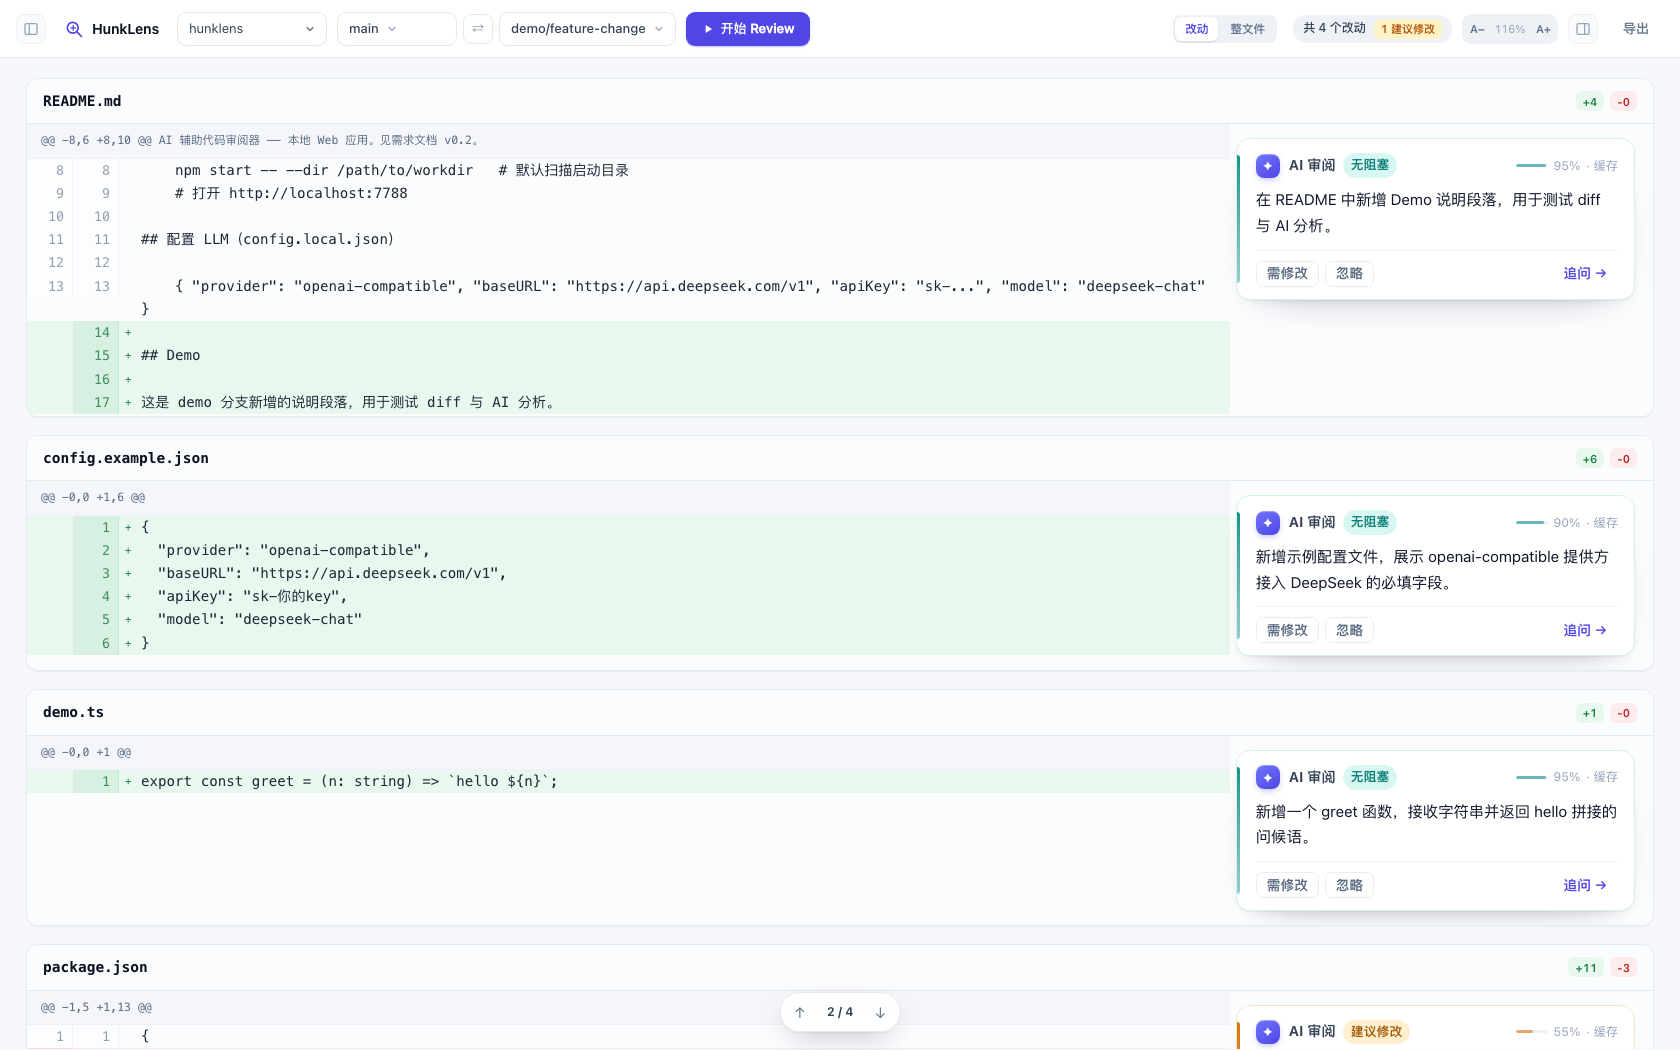
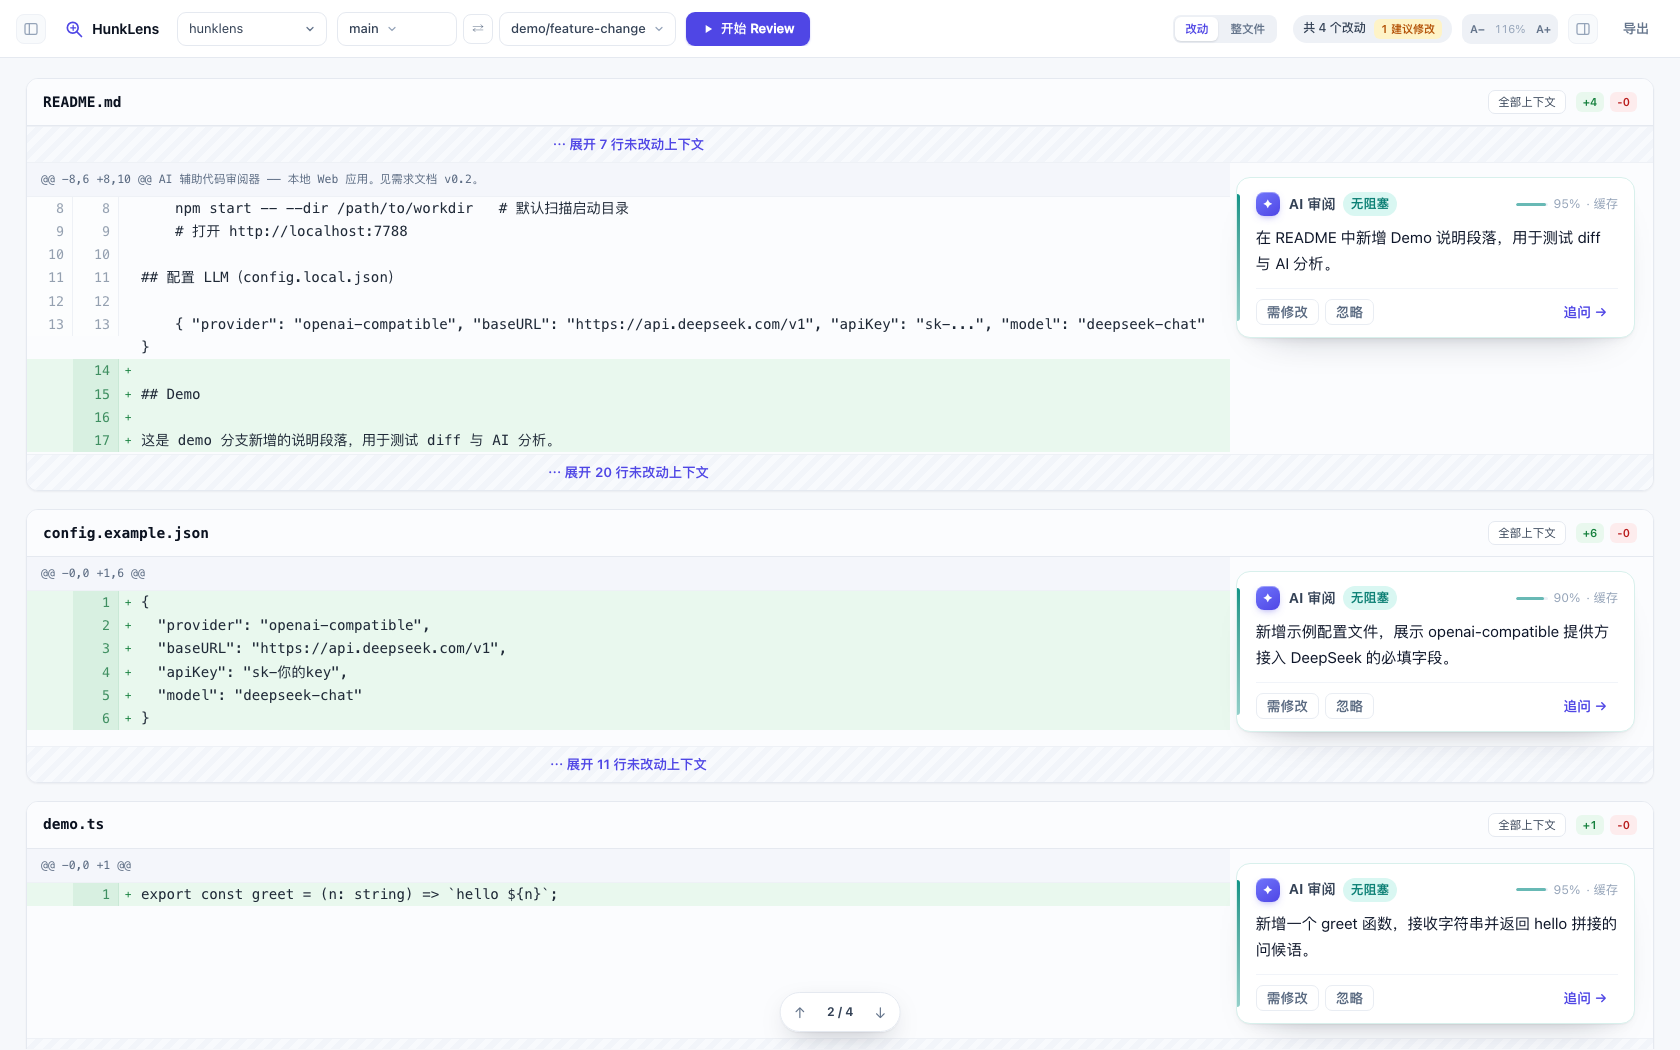
feat: 改动视图支持 GitHub 式「展开 N 行未改动上下文」；修复整文件模式下 AI 结论不显示
- 每个改动块前后留「⋯ 展开 N 行未改动上下文」，点一次铺开 20 行，可反复展开
- 文件头新增「全部上下文」，一键展开整份文件的未改动代码
- /api/diff/file 返回两侧总行数（oldTotal/newTotal），无需先拉整份文件即可知道要展开多少行
- 修复：整文件视图切换在 SSE 之前，卡片缺少 data-slot 导致分析结果永远显示不出来
- 整文件读取失败时回退到改动视图，保证结论照常可见
- 全局视图切换改为并行；展开的上下文块不计入改动跳转
- 上下文条按代码列居中，右侧留白对齐 AI 卡片；README 与截图同步更新

diff --git a/public/app.js b/public/app.js
@@ -516,12 +516,12 @@ async function startReview() {
     renderRail(head.files);
     var blocks = await Promise.all(head.files.map(function (f) {
       return api("/api/diff/file?" + params() + "&file=" + encodeURIComponent(f.file))
-        .then(function (d) { return { f: f, parsed: d.parsed }; });
+        .then(function (d) { return { f: f, parsed: d.parsed, oldTotal: d.oldTotal, newTotal: d.newTotal }; });
     }));
     var containers = {};
     for (var i = 0; i < blocks.length; i++) {
       var b = blocks[i];
-      var map = renderFile(b.f, b.parsed);
+      var map = renderFile(b.f, b.parsed, { oldTotal: b.oldTotal, newTotal: b.newTotal });
       for (var k in map) containers[k] = map[k];
     }
     setProgress("已加载 " + head.files.length + " 个文件，准备 AI 分析…", 3);
@@ -563,7 +563,7 @@ function setFileSev(file, sev) {
 /* ---------------- diff 渲染 ---------------- */
 var HUNKS = {}; // file -> [{header, lines, oldStart, oldCount, newStart, newCount}]
 
-function renderFile(f, parsed) {
+function renderFile(f, parsed, totals) {
   var block = document.createElement("div");
   block.className = "file-block";
   block.id = "f-" + f.file;
@@ -571,8 +571,10 @@ function renderFile(f, parsed) {
   block.dataset.mode = "diff";
   var html = "<div class=\"file-head\">"
     + "<span class=\"path\" title=\"" + esc(f.file) + "\"><bdi>" + esc(f.file) + "</bdi></span>"
+    + "<button type=\"button\" class=\"ctx-all\" data-expand-all=\"1\" title=\"展开整份文件的未改动代码\">全部上下文</button>"
     + "<span class=\"hstat\"><span class=\"chip ins\">+" + f.insertions + "</span><span class=\"chip del\">-" + f.deletions + "</span></span>"
     + "</div><div class=\"file-body\">";
+  var oldCursor = 1, newCursor = 1;
   var meta = [];
   var slots = {};
   var idx = 0;
@@ -585,6 +587,9 @@ function renderFile(f, parsed) {
         oldStart: m ? +m[1] : 0, oldCount: m ? (m[2] === undefined ? 1 : +m[2]) : 0,
         newStart: m ? +m[3] : 0, newCount: m ? (m[4] === undefined ? 1 : +m[4]) : 0
       });
+      var gapO = Math.max(0, (m ? +m[1] : 0) - oldCursor);
+      var gapN = Math.max(0, (m ? +m[3] : 0) - newCursor);
+      if (gapO || gapN) html += gapHTML(f.file, oldCursor, gapO, newCursor, gapN);
       var rows = "";
       h.lines.forEach(function (line) {
         var cls = "ctx", sg = " ", o = "", n = "";
@@ -605,10 +610,16 @@ function renderFile(f, parsed) {
         + "<div class=\"skel\" style=\"width:94%\"></div>"
         + "<div class=\"skel\" style=\"width:78%\"></div>"
         + "<div class=\"skel\" style=\"width:58%\"></div></div></div>";
+      oldCursor = oldLn; newCursor = newLn;
       slots[f.file + ":" + idx] = idx;
       idx++;
     });
   });
+  if (totals) {
+    var tailO = Math.max(0, (+totals.oldTotal || 0) - oldCursor + 1);
+    var tailN = Math.max(0, (+totals.newTotal || 0) - newCursor + 1);
+    if (tailO || tailN) html += gapHTML(f.file, oldCursor, tailO, newCursor, tailN);
+  }
   html += "</div>";
   block.innerHTML = html;
   block._diffHTML = block.querySelector(".file-body").innerHTML;
@@ -618,6 +629,72 @@ function renderFile(f, parsed) {
   for (var k in slots) map[k] = true;
   return map;
 }
+
+/* ---------------- 未改动上下文：点击展开（GitHub 式） ---------------- */
+function gapHTML(file, oc, olen, nc, nlen) {
+  if (olen <= 0 && nlen <= 0) return "";
+  var n = Math.max(olen, nlen);
+  return "<div class=\"ctx-gap\" data-file=\"" + esc(file) + "\" data-oc=\"" + oc + "\" data-olen=\"" + olen
+    + "\" data-nc=\"" + nc + "\" data-nlen=\"" + nlen + "\"><div class=\"ctx-gap-main\">"
+    + "<button type=\"button\" class=\"ctx-btn\" data-expand=\"1\" title=\"展开这处未改动的代码\">⋯ 展开 "
+    + Math.min(20, n) + " 行未改动上下文</button></div><span class=\"ctx-spacer\"></span></div>";
+}
+
+async function expandGap(gapEl, step) {
+  var file = gapEl.dataset.file;
+  var oc = +gapEl.dataset.oc, olen = +gapEl.dataset.olen;
+  var nc = +gapEl.dataset.nc, nlen = +gapEl.dataset.nlen;
+  var data;
+  try { data = await loadWholeFile(file); } catch (e) { return; }
+  var total = Math.max(olen, nlen);
+  var take = Math.min(step || 20, total);
+  if (take <= 0) { gapEl.remove(); return; }
+  var rows = "";
+  for (var k = 0; k < take; k++) {
+    var hasO = k < olen, hasN = k < nlen;
+    var oTxt = hasO ? data.oldLines[oc + k - 1] : null;
+    var nTxt = hasN ? data.newLines[nc + k - 1] : null;
+    var txt = hasO ? oTxt : nTxt;
+    rows += "<div class=\"row ctx\"><span class=\"ln\">" + (hasO ? oc + k : "") + "</span>"
+      + "<span class=\"ln\">" + (hasN ? nc + k : "") + "</span>"
+      + "<span class=\"sg\"> </span><code>" + esc(txt == null ? "" : txt) + "</code></div>";
+  }
+  var hunk = document.createElement("div");
+  hunk.className = "hunk is-ctx";
+  hunk.innerHTML = "<div class=\"code\">" + rows + "</div>";
+  gapEl.parentNode.insertBefore(hunk, gapEl);
+  var leftO = Math.max(0, olen - take), leftN = Math.max(0, nlen - take);
+  if (leftO || leftN) {
+    gapEl.dataset.oc = oc + Math.min(take, olen);
+    gapEl.dataset.olen = leftO;
+    gapEl.dataset.nc = nc + Math.min(take, nlen);
+    gapEl.dataset.nlen = leftN;
+    var bn = Math.max(leftO, leftN);
+    var btn = gapEl.querySelector("button");
+    if (btn) btn.textContent = "⋯ 再展开 " + Math.min(20, bn) + " 行（还有 " + bn + " 行未改动）";
+  } else {
+    gapEl.remove();
+  }
+}
+
+async function expandAllGaps(block) {
+  var gaps = Array.prototype.slice.call(block.querySelectorAll(".ctx-gap"));
+  for (var i = 0; i < gaps.length; i++) {
+    var gEl = gaps[i];
+    if (!gEl.parentNode) continue;
+    await expandGap(gEl, 100000);
+  }
+}
+
+document.addEventListener("click", function (e) {
+  if (!e.target.closest) return;
+  var ex = e.target.closest("[data-expand]");
+  if (ex) { var gEl = ex.closest(".ctx-gap"); if (gEl) { e.preventDefault(); expandGap(gEl, 20); } return; }
+  var all = e.target.closest("[data-expand-all]");
+  if (all) { var blk = all.closest(".file-block"); if (blk) expandAllGaps(blk); return; }
+  var gap = e.target.closest(".ctx-gap");
+  if (gap) expandGap(gap, 20);
+});
 
 /* ---------------- 改动 / 整文件 视图切换 ---------------- */
 var FILE_CACHE = {};
@@ -671,8 +748,10 @@ function cmpRowHTML(r, oldLines, newLines) {
 function aiCardForSlot(file, idx) {
   var a = state.analysis[file + ":" + idx];
   if (a) return cardHTML(a.analysis, a.key, file, idx, a.cached);
-  return "<div class=\"ai-card is-pending\"><div class=\"ai-head\"><span class=\"ai-avatar\">✦</span>"
-    + "<span class=\"ai-title\"><span class=\"ai-name\">AI 审阅</span><span class=\"pill pending\">未分析</span></span></div></div>";
+  return "<div class=\"ai-card is-pending\" data-slot=\"" + esc(file + ":" + idx) + "\"><div class=\"ai-head\"><span class=\"ai-avatar\">✦</span>"
+    + "<span class=\"ai-title\"><span class=\"ai-name\">AI 审阅</span><span class=\"pill pending\">阅读中</span></span></div>"
+    + "<div class=\"pending-note\"><span class=\"pulse\"></span>正在读这段改动…</div>"
+    + "<div class=\"skel\" style=\"width:94%\"></div><div class=\"skel\" style=\"width:66%\"></div></div>";
 }
 
 var CMP_PAGE = 1500; // 整文件视图一次渲染的行数；超过则分块显示，避免超大文件卡死
@@ -764,7 +843,11 @@ async function setFileMode(block, mode) {
     var data = await loadWholeFile(file);
     body.innerHTML = buildCompareHTML(file, data);
   } catch (e) {
-    body.innerHTML = "<div class=\"empty-hint\" style=\"padding:18px\">整文件读取失败：" + esc(e.message) + "</div>";
+    // 读取失败就退回「改动」视图，保证 AI 结论照常展示
+    block.dataset.mode = "diff";
+    body.classList.remove("is-cmp");
+    body.innerHTML = block._diffHTML;
+    restoreDiffCards(body, file);
   }
 }
 
@@ -774,7 +857,7 @@ async function applyViewMode(mode) {
   try { localStorage.setItem("hunklens.viewMode", VIEW_MODE); } catch (e) {}
   setViewSegUI();
   var blocks = Array.prototype.slice.call(document.querySelectorAll(".file-block"));
-  for (var i = 0; i < blocks.length; i++) await setFileMode(blocks[i], VIEW_MODE);
+  await Promise.all(blocks.map(function (b) { return setFileMode(b, VIEW_MODE); }));
   buildJumpIndex();
   syncRailActive();
 }
@@ -834,7 +917,7 @@ function markJumpMenu() {
 }
 
 function buildJumpIndex() {
-  JUMP = Array.prototype.slice.call(document.querySelectorAll(VIEW_MODE === "file" ? ".file-block .cmp-ai" : ".file-block .hunk"));
+  JUMP = Array.prototype.slice.call(document.querySelectorAll(VIEW_MODE === "file" ? ".file-block .cmp-ai" : ".file-block .hunk:not(.is-ctx)"));
   if (jumpIdx >= JUMP.length) jumpIdx = Math.max(0, JUMP.length - 1);
   var bar = $("#jumpBar");
   bar.hidden = !JUMP.length;
@@ -945,7 +1028,7 @@ function cardHTML(a, key, file, hunkIndex, cached) {
   var marked = (state.review.hunks || {})[key];
   var issues = (a.issues || []).filter(function (x) { return x && x.desc; });
   var conf = a.confidence ? Math.round(a.confidence * 100) : 0;
-  var html = "<div class=\"ai-card sev-" + sev.cls + "\" data-key=\"" + esc(key) + "\">"
+  var html = "<div class=\"ai-card sev-" + sev.cls + "\" data-key=\"" + esc(key) + "\" data-slot=\"" + esc(String(file || "") + ":" + hunkIndex) + "\">"
     + "<div class=\"ai-head\">"
     + "<span class=\"ai-avatar\">✦</span>"
     + "<span class=\"ai-title\"><span class=\"ai-name\">AI 审阅</span>"

diff --git a/public/style.css b/public/style.css
@@ -10,6 +10,7 @@
   --fs:1;                       /* 全局字号缩放（顶栏 A− / A+ 调节） */
   --lh:calc(20px * var(--fs));  /* diff 行高，跟随字号 */
   --rail-w:264px; --insp-w:400px;
+  --card-w:calc(380px + (var(--fs) - 1) * 120px); /* AI 卡片宽度，跟随字号 */
   --shadow-sm:0 1px 2px rgba(15,23,42,.05);
   --shadow-md:0 1px 3px rgba(15,23,42,.06),0 12px 28px -18px rgba(15,23,42,.25);
   --radius:12px;
@@ -155,11 +156,23 @@ body.hide-insp .diff-area{padding-right:26px}
 .row.del .ln{background:var(--del-gutter);color:#b25c5c;border-right-color:#f3cdcf}
 .row.del .sg{color:var(--del-line)}
 .row.ctx .sg{color:#cbd5e1}
+/* 未改动上下文：GitHub 式「展开 N 行」 */
+.ctx-gap{display:flex;align-items:stretch;background:repeating-linear-gradient(135deg,#f8fafd,#f8fafd 6px,#f2f5fa 6px,#f2f5fa 12px);border-top:1px solid var(--line-2)}
+.ctx-gap-main{flex:1;min-width:0;display:flex;align-items:center;justify-content:center}
+.ctx-spacer{flex:none;width:calc(var(--card-w) + 24px)}
+.ctx-gap .ctx-btn{display:block;width:100%;max-width:100%;border:none;background:transparent;color:var(--accent);
+  font-family:inherit;font-size:calc(11.5px * var(--fs));font-weight:600;padding:7px 14px;cursor:pointer;text-align:center}
+.ctx-gap .ctx-btn:hover{background:rgba(79,70,229,.07);color:#4338ca}
+.hunk.is-ctx{background:#fff}
+.ctx-all{flex:none;height:24px;padding:0 9px;border-radius:7px;border:1px solid var(--line);background:#fff;
+  color:var(--ink-2);font-family:inherit;font-size:11.5px;cursor:pointer}
+.ctx-all:hover{border-color:#c7cbf5;color:var(--accent);background:#f7f8ff}
+.file-block[data-mode="file"] .ctx-all{display:none}
 
 /* ---------- AI card ---------- */
 .hunk{background:#fbfcfe}
 .ai-card{--sev:var(--info);--sev-soft:rgba(15,148,136,.07);--sev-line:#eef1f6;
-  position:relative;flex:none;align-self:flex-start;width:calc(380px + (var(--fs) - 1) * 120px);
+  position:relative;flex:none;align-self:flex-start;width:var(--card-w);
   margin:14px 18px 14px 6px;padding:14px 16px 12px 19px;
   border-radius:14px;background:#fff;border:1px solid var(--sev-line);
   box-shadow:0 1px 1px rgba(15,23,42,.03),0 6px 16px -12px rgba(15,23,42,.22),0 20px 44px -32px rgba(15,23,42,.4);
@@ -378,7 +391,8 @@ body.hide-insp .diff-area{padding-right:26px}
   body.show-rail .rail{left:0;border-right:1px solid var(--line)}
   body.show-insp .inspector{right:0;border-left:1px solid var(--line)}
   body.hide-rail .diff-area,body.hide-insp .diff-area{padding-left:18px;padding-right:18px}
-  .hunk{flex-direction:column}.ai-card{width:auto;border-left:none;border-top:1px solid var(--line)}}
+  .hunk{flex-direction:column}.ai-card{width:auto;border-left:none;border-top:1px solid var(--line)}
+  .ctx-spacer{display:none}}
 
 /* ---------- 需求文档 chips / 拖拽 ---------- */
 .docs-row{display:flex;align-items:center;gap:8px;margin:2px 0 8px}

diff --git a/src/server/index.js b/src/server/index.js
@@ -81,7 +81,11 @@ app.get("/api/diff/file", async (req, res) => {
   try {
     const { repo, base, compare, file } = req.query;
     const text = await g.rawDiff(repo, base, compare, file);
-    res.json({ parsed: parseUnifiedDiff(text), raw: text });
+    // 两侧文件行数：客户端据此显示「展开 N 行未改动」，无需先拉整份文件
+    const count = (t) => { const s = String(t || "").replace(/\n$/, ""); return s ? s.split("\n").length : 0; };
+    const read = async (ref) => { try { return count(await g.fileAt(repo, ref, file)); } catch (e) { return 0; } };
+    const [oldTotal, newTotal] = await Promise.all([read(base), read(compare)]);
+    res.json({ parsed: parseUnifiedDiff(text), raw: text, oldTotal, newTotal });
   } catch (e) { res.status(500).json({ error: String(e) }); }
 });
 

diff --git a/README.md b/README.md
@@ -63,6 +63,7 @@ http://localhost:7788/?auto=1&base=main&compare=feature-x
 | 一键 Review | 选好分支点一次，自动拉 diff + 逐块 AI 分析 + 生成总览，全程不用再点 |
 | 行内 diff | 双行号（旧/新）+ 增删高亮，GitHub 风格；文件侧边栏随滚动高亮当前文件 |
 | 整文件对比 | 顶栏「改动 / 整文件」一键切换全部文件：左右对齐整份代码、不折叠上下文，AI 结论挂在对应改动段下方 |
+| 上下文展开 | 每个改动块之间保留「⋯ 展开 N 行未改动上下文」，点一次展开 20 行；文件头「全部上下文」一键铺开整份文件 |
 | 改动导航 | 底部常驻 `2 / 4` 胶囊，点开按文件分组的改动清单，↑↓ 或 `n` / `p` 逐处跳转，滚动自动跟随 |
 | 分支对比 | 本地任意两分支 three-dot 对比；下拉可搜索本地/远程分支、一键拉取远程、点远程分支自动建跟踪分支并检出 |
 | AI 逐块分析 | 每个 hunk 返回 `{intent, severity, issues[], suggestion, confidence}`，SSE 流式逐个返回，并发 3 |
@@ -96,6 +97,14 @@ http://localhost:7788/?auto=1&base=main&compare=feature-x
 - **改动导航**：底部胶囊 `↑ 2 / 4 ↓`，点中间数字展开按文件分组的改动清单（带 severity 色点），箭头或键盘 `n` / `p` 逐处跳转，滚动时序号自动跟随当前位置
 
 ![改动清单](docs/screenshot-jump.png)
+
+- **上下文展开**：改动块之间默认只留必要的几行，其余显示成一条 `⋯ 展开 N 行未改动上下文`（GitHub 式），点一次向上/向下铺开 20 行，要看全就直接点文件头右侧的「全部上下文」。这样既不会被几千行未改动代码冲淡重点，也能随时把某段改动放回完整上下文里看
+
+![上下文展开](docs/screenshot-context.png)
+
+点文件头右侧的「全部上下文」，整份文件的未改动代码一次性铺开（长文件仍可继续往上滚）：
+
+![全部上下文](docs/screenshot-expanded.png)
 
 - **整文件对比**：顶栏的「改动 / 整文件」是全局开关，点一次所有文件一起换视图（不留半新半旧）。整文件模式像 git 看整份文件那样，把两个版本的完整代码左右对齐、上下代码全都看得见，改动行直接高亮，AI 结论挂在对应改动段下方 —— 判断「这处改动放在整个文件里对不对」时不用来回翻 diff。超长文件按 1500 行分块，底部给「继续显示剩余 N 行」，不会因为几万行把页面卡死
 
